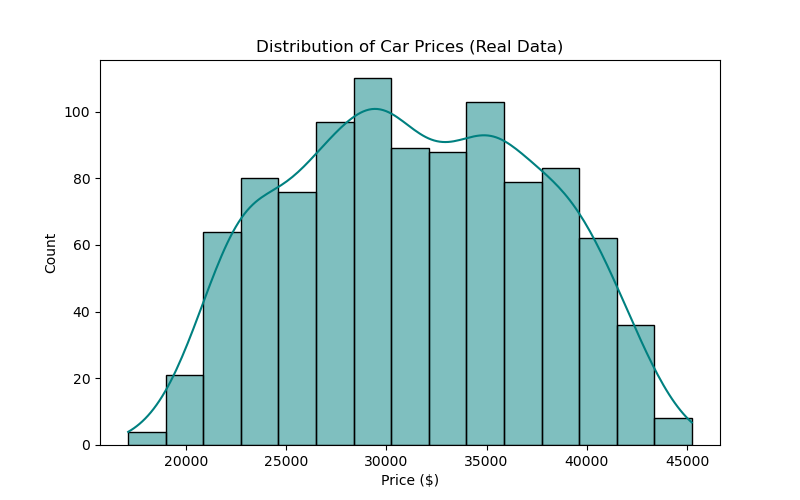
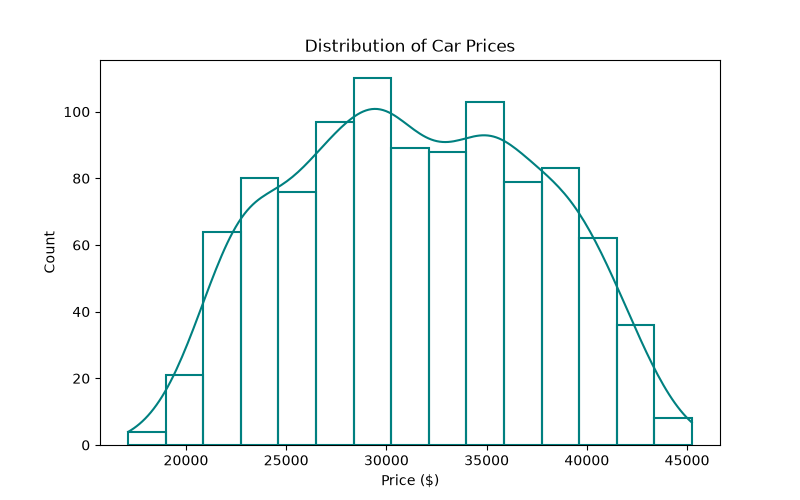
Changed the graphs

diff --git a/main.py b/main.py
@@ -41,7 +41,7 @@ for col in df_sales.select_dtypes(include=[np.number]).columns:
 
 print("\n--- 3. GENERATING VISUALIZATIONS ---")
 
-# Visualization 1: Distribution of Prices
+# Visualization 1: Distribution of Car Prices
 if price_col:
     plt.figure(figsize=(8, 5))
     sns.histplot(df_sales[price_col].dropna(), kde=True, fill=False, color='teal')
